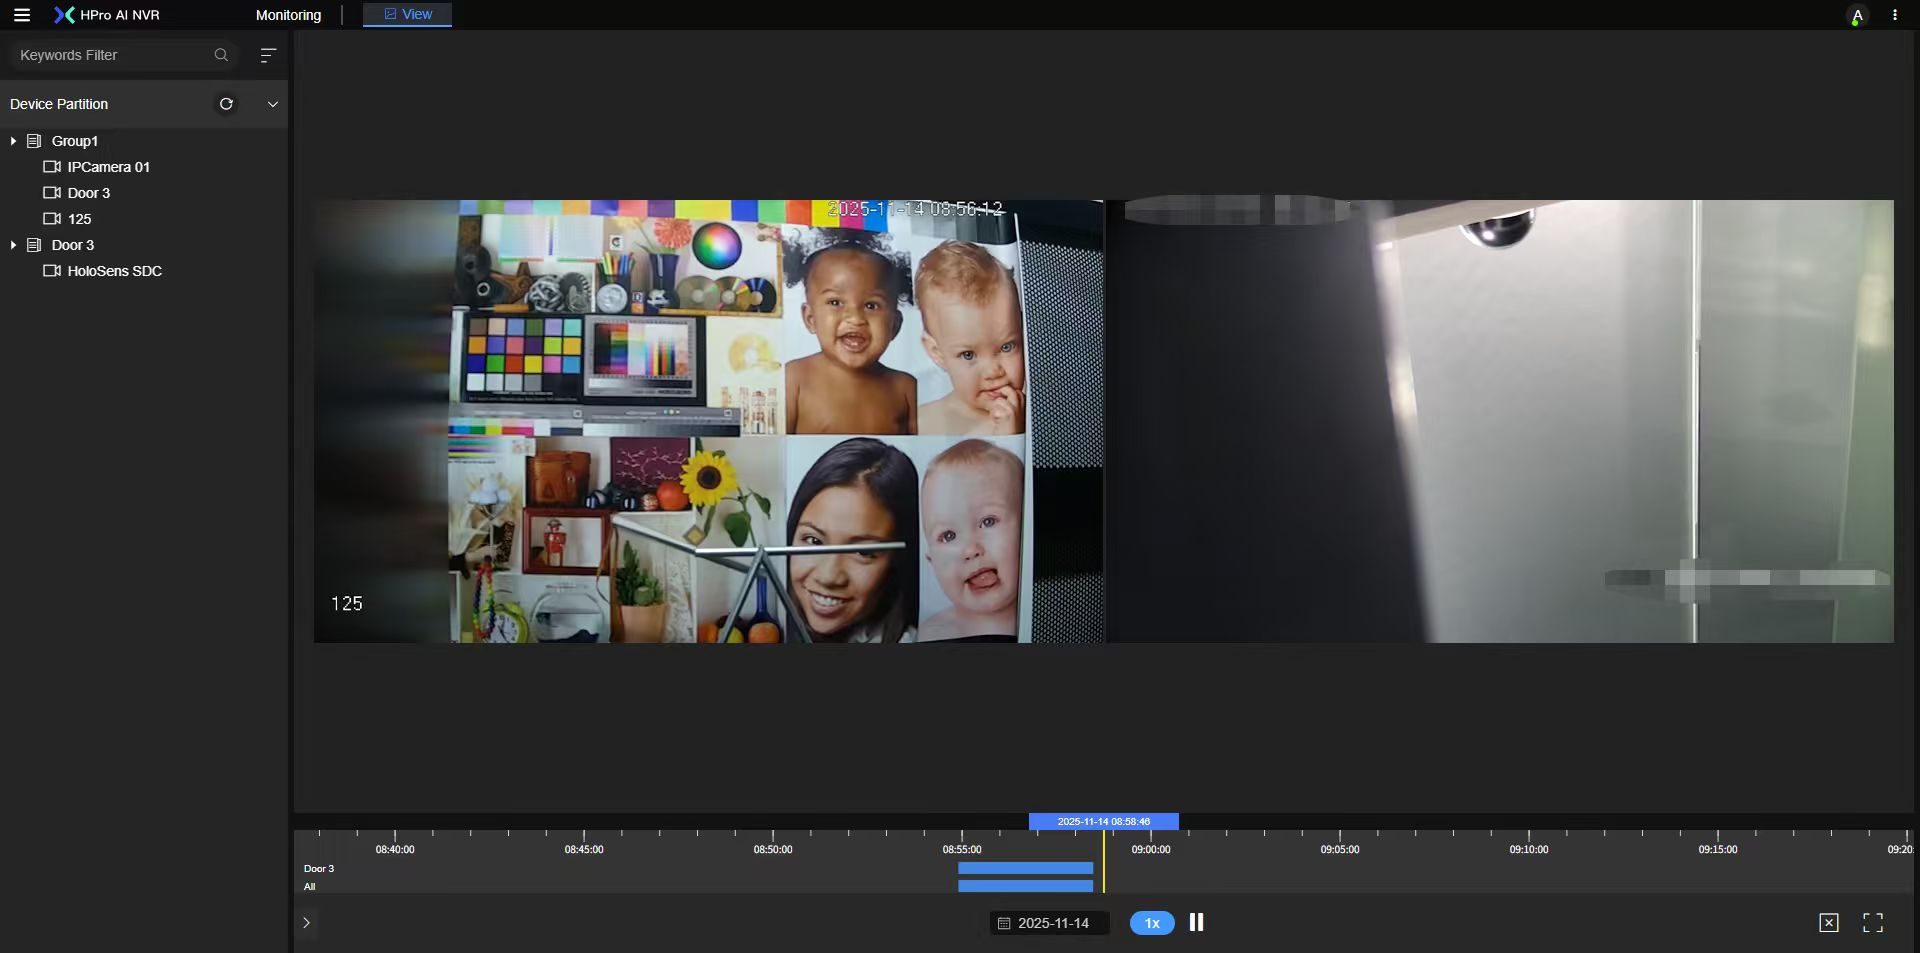
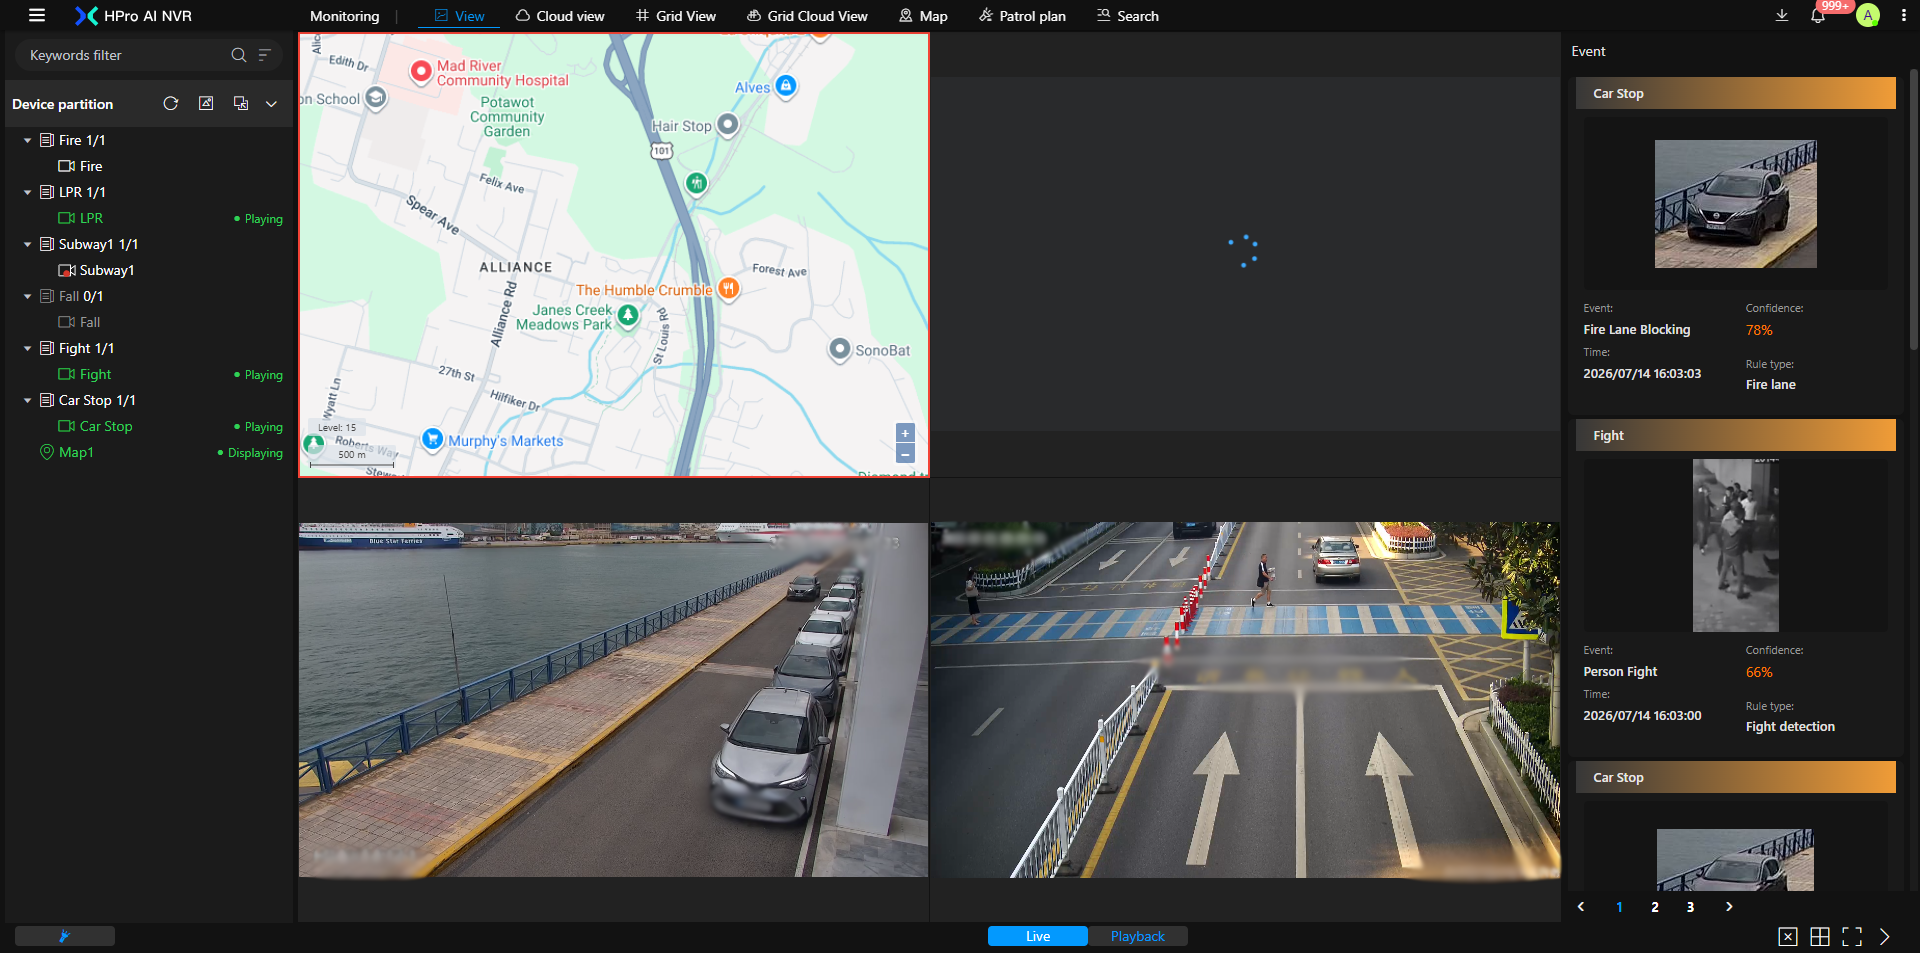
update view

diff --git a/docs/Analytics/Analytics.md b/docs/Analytics/Analytics.md
@@ -7,3 +7,5 @@ sidebar_position: 1
 
 The system is based on deep learning technology, supports Intel CPU and NVIDIA GPU inference, supports real-time analysis of perimeter and illegal behavior, and stores metadata in a streaming video database that can be searched based on different conditions, providing more powerful security prevention strategies and post-event investigation methods.The platform detects abnormal behavior and suspicious activities based on user-defined rules, providing real-time alert reporting without the need for continuous manual monitoring.Realize 7×24 hours of uninterrupted reasoning, greatly reduce the workload of manual processing of massive video data, and proactively identify potential safety hazards and prevent suspicious risks.
 
+![00-AIEvent](./Img/aievent.png)
+
